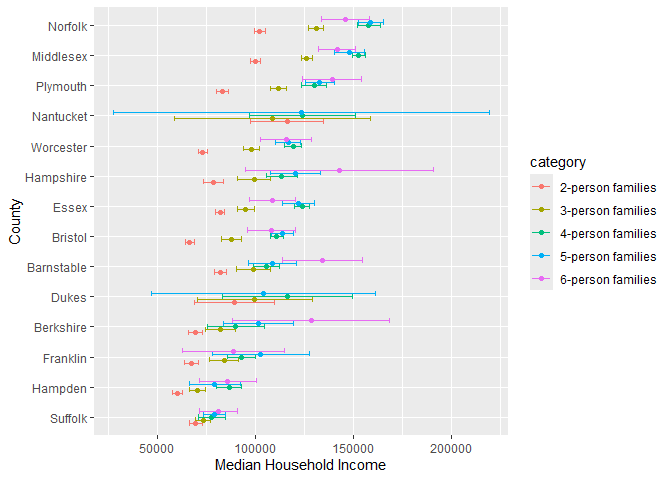
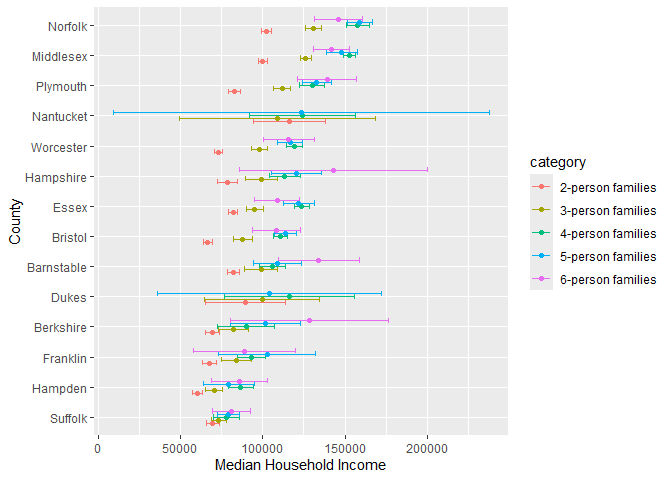
Challenge 9 Corrections

diff --git a/challenges/c09-income-assignment.md b/challenges/c09-income-assignment.md
@@ -329,7 +329,7 @@ $$\text{MOE} = 1.645 \times \text{SE}.$$
 df_q4 <-
   df_q3 %>%
   mutate(
-    income_SE = income_moe / 1.96,
+    income_SE = income_moe / 1.645,
     income_lo = income_estimate - 2.576 * income_SE,
     income_hi = income_estimate + 2.576 * income_SE,
     income_CV = income_SE / income_estimate
@@ -340,16 +340,16 @@ df_q4
     ## # A tibble: 16,100 × 9
     ##    Geography  geographic_area_name category income_estimate income_moe income_SE
     ##    <chr>      <chr>                <chr>              <dbl>      <dbl>     <dbl>
-    ##  1 0500000US… Autauga County, Ala… 2-perso…           64947       6663     3399.
-    ##  2 0500000US… Autauga County, Ala… 3-perso…           80172      14181     7235.
-    ##  3 0500000US… Autauga County, Ala… 4-perso…           85455      10692     5455.
-    ##  4 0500000US… Autauga County, Ala… 5-perso…           88601      20739    10581.
-    ##  5 0500000US… Autauga County, Ala… 6-perso…          103787      12387     6320.
-    ##  6 0500000US… Baldwin County, Ala… 2-perso…           63975       2297     1172.
-    ##  7 0500000US… Baldwin County, Ala… 3-perso…           79390       8851     4516.
-    ##  8 0500000US… Baldwin County, Ala… 4-perso…           88458       5199     2653.
-    ##  9 0500000US… Baldwin County, Ala… 5-perso…           91259       7011     3577.
-    ## 10 0500000US… Baldwin County, Ala… 6-perso…           69609      23175    11824.
+    ##  1 0500000US… Autauga County, Ala… 2-perso…           64947       6663     4050.
+    ##  2 0500000US… Autauga County, Ala… 3-perso…           80172      14181     8621.
+    ##  3 0500000US… Autauga County, Ala… 4-perso…           85455      10692     6500.
+    ##  4 0500000US… Autauga County, Ala… 5-perso…           88601      20739    12607.
+    ##  5 0500000US… Autauga County, Ala… 6-perso…          103787      12387     7530.
+    ##  6 0500000US… Baldwin County, Ala… 2-perso…           63975       2297     1396.
+    ##  7 0500000US… Baldwin County, Ala… 3-perso…           79390       8851     5381.
+    ##  8 0500000US… Baldwin County, Ala… 4-perso…           88458       5199     3160.
+    ##  9 0500000US… Baldwin County, Ala… 5-perso…           91259       7011     4262.
+    ## 10 0500000US… Baldwin County, Ala… 6-perso…           69609      23175    14088.
     ## # ℹ 16,090 more rows
     ## # ℹ 3 more variables: income_lo <dbl>, income_hi <dbl>, income_CV <dbl>
 
@@ -357,46 +357,68 @@ Use the following tests to check your work:
 
 ``` r
 ## NOTE: No need to edit
-# assertthat::assert_that(setequal(
-#   names(df_q4),
-#   c("Geography", "geographic_area_name", "category", "income_estimate", "income_moe",
-#     "income_SE", "income_lo", "income_hi", "income_CV")
-# ))
-# 
-# assertthat::assert_that(
-#   abs(
-#     df_q4 %>%
-#     filter(Geography == "0500000US01001", category == "2-person families") %>%
-#     pull(income_SE) - 4050.456
-#   ) / 4050.456 < 1e-3
-# )
-# 
-# assertthat::assert_that(
-#   abs(
-#     df_q4 %>%
-#     filter(Geography == "0500000US01001", category == "2-person families") %>%
-#     pull(income_lo) - 54513.72
-#   ) / 54513.72 < 1e-3
-# )
-# 
-# assertthat::assert_that(
-#   abs(
-#     df_q4 %>%
-#     filter(Geography == "0500000US01001", category == "2-person families") %>%
-#     pull(income_hi) - 75380.28
-#   ) / 75380.28 < 1e-3
-# )
-# 
-# assertthat::assert_that(
-#   abs(
-#     df_q4 %>%
-#     filter(Geography == "0500000US01001", category == "2-person families") %>%
-#     pull(income_CV) - 0.06236556
-#   ) / 0.06236556 < 1e-3
-# )
-# 
-# print("Nice!")
+ assertthat::assert_that(setequal(
+   names(df_q4),
+   c("Geography", "geographic_area_name", "category", "income_estimate", "income_moe",
+     "income_SE", "income_lo", "income_hi", "income_CV")
+ ))
 ```
+
+    ## [1] TRUE
+
+``` r
+ assertthat::assert_that(
+   abs(
+     df_q4 %>%
+     filter(Geography == "0500000US01001", category == "2-person families") %>%
+     pull(income_SE) - 4050.456
+   ) / 4050.456 < 1e-3
+ )
+```
+
+    ## [1] TRUE
+
+``` r
+ assertthat::assert_that(
+   abs(
+     df_q4 %>%
+     filter(Geography == "0500000US01001", category == "2-person families") %>%
+     pull(income_lo) - 54513.72
+   ) / 54513.72 < 1e-3
+ )
+```
+
+    ## [1] TRUE
+
+``` r
+ assertthat::assert_that(
+   abs(
+     df_q4 %>%
+     filter(Geography == "0500000US01001", category == "2-person families") %>%
+     pull(income_hi) - 75380.28
+   ) / 75380.28 < 1e-3
+ )
+```
+
+    ## [1] TRUE
+
+``` r
+ assertthat::assert_that(
+   abs(
+     df_q4 %>%
+     filter(Geography == "0500000US01001", category == "2-person families") %>%
+     pull(income_CV) - 0.06236556
+   ) / 0.06236556 < 1e-3
+ )
+```
+
+    ## [1] TRUE
+
+``` r
+ print("Nice!")
+```
+
+    ## [1] "Nice!"
 
 One last wrangling step: We need to join the two datasets so we can
 compare population with income.
@@ -419,16 +441,16 @@ df_data
     ## # A tibble: 16,100 × 13
     ##    Geography  geographic_area_name category income_estimate income_moe income_SE
     ##    <chr>      <chr>                <chr>              <dbl>      <dbl>     <dbl>
-    ##  1 0500000US… Autauga County, Ala… 2-perso…           64947       6663     3399.
-    ##  2 0500000US… Autauga County, Ala… 3-perso…           80172      14181     7235.
-    ##  3 0500000US… Autauga County, Ala… 4-perso…           85455      10692     5455.
-    ##  4 0500000US… Autauga County, Ala… 5-perso…           88601      20739    10581.
-    ##  5 0500000US… Autauga County, Ala… 6-perso…          103787      12387     6320.
-    ##  6 0500000US… Baldwin County, Ala… 2-perso…           63975       2297     1172.
-    ##  7 0500000US… Baldwin County, Ala… 3-perso…           79390       8851     4516.
-    ##  8 0500000US… Baldwin County, Ala… 4-perso…           88458       5199     2653.
-    ##  9 0500000US… Baldwin County, Ala… 5-perso…           91259       7011     3577.
-    ## 10 0500000US… Baldwin County, Ala… 6-perso…           69609      23175    11824.
+    ##  1 0500000US… Autauga County, Ala… 2-perso…           64947       6663     4050.
+    ##  2 0500000US… Autauga County, Ala… 3-perso…           80172      14181     8621.
+    ##  3 0500000US… Autauga County, Ala… 4-perso…           85455      10692     6500.
+    ##  4 0500000US… Autauga County, Ala… 5-perso…           88601      20739    12607.
+    ##  5 0500000US… Autauga County, Ala… 6-perso…          103787      12387     7530.
+    ##  6 0500000US… Baldwin County, Ala… 2-perso…           63975       2297     1396.
+    ##  7 0500000US… Baldwin County, Ala… 3-perso…           79390       8851     5381.
+    ##  8 0500000US… Baldwin County, Ala… 4-perso…           88458       5199     3160.
+    ##  9 0500000US… Baldwin County, Ala… 5-perso…           91259       7011     4262.
+    ## 10 0500000US… Baldwin County, Ala… 6-perso…           69609      23175    14088.
     ## # ℹ 16,090 more rows
     ## # ℹ 7 more variables: income_lo <dbl>, income_hi <dbl>, income_CV <dbl>,
     ## #   `Geographic Area Name` <chr>, population_estimate <dbl>,
@@ -540,13 +562,16 @@ ggplot(
   this trend exist?
   - Generally, on a log scale, standard error decreases as population
     increases. This might happen because more data points decreases the
-    standard error, larger samples are more accurate representations of
-    the population.
+    standard error, larger samples that are proportional to the target
+    population are more accurate representations of the population. A
+    larger population in general though would not lead to a larger
+    sample size.
 - What does this *overall* trend tell you about the relative ease of
   studying small vs large counties?
   - It can be more difficult to study smaller counties because there is
-    a smaller population (less data points) so it may be less
-    representative or accurate to a larger population.
+    a smaller population, or a sample size not proportional to the
+    population (less data points) so it may be less representative or
+    accurate to a larger population.
 
 # Going Further
 
@@ -562,31 +587,21 @@ States: Pose your own question and try to answer it with the data.
 df_data %>%
   filter(str_detect(geographic_area_name, "Virginia")) %>%
   mutate(
-    county = str_remove(geographic_area_name, " County,.*$"),
-    county = fct_reorder(county, income_estimate)
+    county = str_remove(geographic_area_name, " County,.*$")
   ) %>%
-  ggplot(aes(x = population_estimate, y = county, color = income_estimate)) +
-  geom_point(size = 3, alpha = 0.8) +  
-  scale_x_log10(labels = scales::comma) +  
-  scale_color_gradient(
-    low = "skyblue", 
-    high = "darkblue",
-    labels = scales::dollar 
-  ) +
+  slice_max(income_estimate, n = 20, with_ties = FALSE) %>%
+  ggplot(aes(x = population_estimate, y = income_estimate, color = county)) +
+  geom_point(size = 4, alpha = 0.8) +
+  scale_x_log10(labels = scales::comma) +
+  scale_y_continuous(labels = scales::dollar) +
+  theme_minimal() +
   labs(
-    title = "Virginia Counties: Population vs. Income",
+    title = "Top 20 Virginia Counties by Income: Population vs. Income",
     x = "Population (log scale)",
-    y = "County",
-    color = "Income Estimate ($)"
+    y = "Income Estimate ($)",
+    color = "County"
   )
 ```
-
-    ## Warning: There was 1 warning in `mutate()`.
-    ## ℹ In argument: `county = fct_reorder(county, income_estimate)`.
-    ## Caused by warning:
-    ## ! `fct_reorder()` removing 67 missing values.
-    ## ℹ Use `.na_rm = TRUE` to silence this message.
-    ## ℹ Use `.na_rm = FALSE` to preserve NAs.
 
 ![](c09-income-assignment_files/figure-gfm/q8-task-1.png)<!-- -->
 
